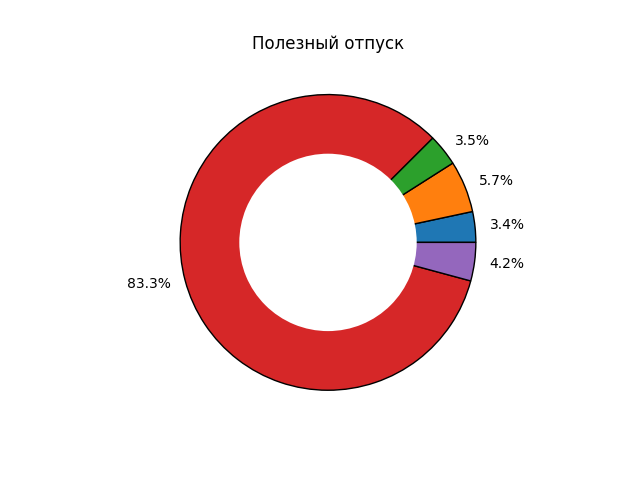
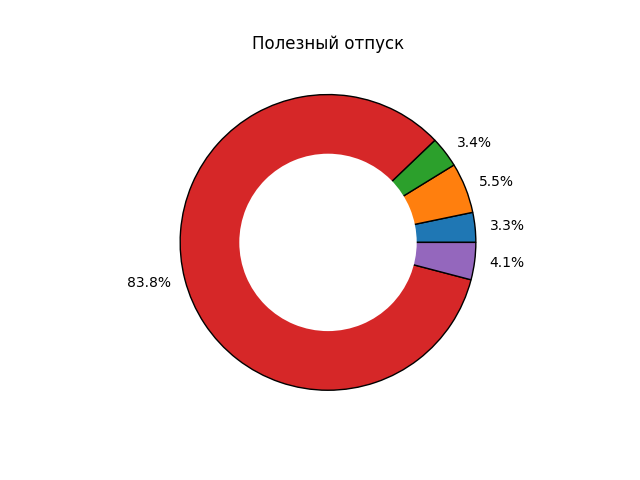
rewtite balance

diff --git a/logic/balance/calculate.py b/logic/balance/calculate.py
@@ -6,7 +6,7 @@ from openpyxl import load_workbook, Workbook
 from openpyxl.worksheet.worksheet import Worksheet
 
 from logic.const import MAIN_DIR, MONTH_LIST
-from logic.utils.excel_extends import open_excel, open_sheet
+from logic.utils.excel_extends import open_sheet, open_excel
 
 
 class Balance:
@@ -14,167 +14,110 @@ class Balance:
     Класс для формирования сводного баланса
     """
 
-    def serialize_network(self, month: str | int) -> dict[str, dict[str, str]]:
-        """
-        Функция для формирования хэш-таблицы сети из файлы "Структура сети.xlsx"
-        Args:
-            month (str | int): Номер месяца
-
-        Returns:
-            dict[str, dict[str, str]]: Данные структуры сети
-        """
+    def serialize_network(self) -> dict[str, dict[str, str]]:
         data = {}
         
         path = f"{MAIN_DIR}/Реестровая база данных/Структура электросети/Свод ОЭСХ.xlsx"
-        file = open_excel(path, data_only=True)
+        file = load_workbook(path, data_only=True)
         sheet = file.worksheets[0]
         for row in range(2, sheet.max_row + 1):
-            data[sheet.cell(row=row, column=1).value] = {
-                "name": sheet.cell(row=row, column=2).value,
-                "consumption": 0,
-                "reception": 0,
-                "transmission": 0,
-                "balance": 0,
-                "waste": 0,
-                "foreign_key": sheet.cell(row=row, column=3).value,
-                "foreign_key_name": sheet.cell(row=row, column=4).value,
-            }
-
+            if sheet.cell(row=row, column=1).value:
+                data[sheet.cell(row=row, column=1).value] = {
+                    "name": sheet.cell(row=row, column=2).value,
+                    "consumption": 0,
+                    "reception": 0,
+                    "transmission": 0,
+                    "balance": 0,
+                    "waste": 0,
+                    "foreign_key": sheet.cell(row=row, column=3).value,
+                    "foreign_key_name": sheet.cell(row=row, column=4).value,
+                }
         return data
         
     
     def serialize_bicu(self, month: str | int) -> dict[str, dict[str, str]]:
-        """
-        Функция для формирования хэш-таблицы потребителей из файлы "Сводная ведомость БИКУ.xlsx"
-        Args:
-            month (str | int): Номер или название месяца
-
-        Returns:
-            dict[str, dict[str, str]]: Данные Бику
-        """
         data = {}
-        year = datetime.now().year
-        
-        path = f"{MAIN_DIR}/Сводный баланс энергопотребления/Сводный баланс {year}/Сводная ведомость БИКУ/Сводная ведомость БИКУ.xlsx"
-        file = open_excel(path, data_only=True)
-        sheet = open_sheet(file, month)
-        
-        for row in range(8, sheet.max_row + 1):
-            data[sheet.cell(row=row, column=3).value] = {
-                "ID": sheet.cell(row=row, column=3).value,
-                "name": sheet.cell(row=row, column=6).value,
-                "status": sheet.cell(row=row, column=5).value,
-                "expenses": sheet.cell(row=row, column=23).value,
-                "foreign_key": sheet.cell(row=row, column=29).value,
-            }
+        year, month = datetime.now().year, MONTH_LIST[month - 1]
+        files_path = f"{MAIN_DIR}/Сводный баланс энергопотребления/Сводный баланс {year}/Сводная ведомость БИКУ/РВ БИКУ {month}/"
+        for file in os.listdir(files_path):
+            path = files_path + file
+            book = load_workbook(path, data_only=True)
+            sheet = book.worksheets[0]
+            for row in range(8, sheet.max_row + 1):
+                data[sheet.cell(row=row, column=3).value] = {
+                    "status": sheet.cell(row=row, column=5).value,
+                    "expenses": sheet.cell(row=row, column=23).value
+                }
         return data
     
     
-    def serialize_consumers(self, month: str | int) -> dict[str, dict[str, str]]:
-        """
-        Функция для формирования хэш-таблицы потребителей из файлы "Сводная ведомость.xlsx"
-        Args:
-            month (str | int): Номер или название месяца
-
-        Returns:
-            dict[str, dict[str, str]]: Данные потребителей
-        """        
+    def serialize_consumers(self, month: str | int, status: str) -> dict[str, dict[str, str]]:
         data = {}
-        year = datetime.now().year
-        
-        path = f"{MAIN_DIR}/Сводный баланс энергопотребления/Сводный баланс {year}/Сводная ведомость потребителей/Сводная ведомость потребителей.xlsx"
-        file = load_workbook(path, data_only=True)
-        sheet = file[MONTH_LIST[month - 1]]
-        
-        for row in range(6, sheet.max_row + 1):
-            data[sheet.cell(row=row, column=3).value] = {
-                "ID": sheet.cell(row=row, column=3).value,
-                "name": sheet.cell(row=row, column=8).value,
-                "expenses": sheet.cell(row=row, column=29).value,
-                "foreign_key": sheet.cell(row=row, column=39).value,
-            }
-            print(sheet.cell(row=row, column=29).value)
+        year, month = datetime.now().year, MONTH_LIST[month - 1]
+        files_path = f"{MAIN_DIR}/Сводный баланс энергопотребления/Сводный баланс {year}/Сводная ведомость потребителей/РВ Потребителей {month}/РВ {status} потребителей/"
+        for file in os.listdir(files_path):
+            path = files_path + file
+            book = load_workbook(path, data_only=True)
+            sheet = book.worksheets[0]
+            for row in range(6, sheet.max_row + 1):
+                data[sheet.cell(row=row, column=3).value] = {
+                    "name": sheet.cell(row=row, column=8).value,
+                    "expenses": sheet.cell(row=row, column=29).value,
+                    "foreign_key": sheet.cell(row=row, column=39).value
+                }
         return data
+        
         
 
     def serialize_balance(self, month: str | int) -> dict[str, dict[str, str]]:
-        """
-        Функция для формирования данных сводного баланса из файлов "Структура сети.xlsx" и "Сводная ведомость.xlsx"
-
-
-
-        Args:
-            month (str | int): Номер или название месяцау
-
-        Returns:
-            dict[str, dict[str, str]]: Хэш-таблица баланса
-        """
-        consumers_data = self.serialize_consumers(month)
-        network_data = self.serialize_network(month)
+        data = self.serialize_network()
         bicu_data = self.serialize_bicu(month)
+        consumers_data = self.serialize_consumers(month, "Бытовых") | self.serialize_consumers(month, "Коммерческих")
         
-        balance = network_data
-
-        for value in consumers_data.values():
-            foreign_key = value["foreign_key"]
-            if foreign_key in balance.keys():
-                if value["expenses"]:
-                    balance[foreign_key]["consumption"] += value["expenses"]
-
-        for value in bicu_data.values():
-            foreign_key = value["foreign_key"]
-            if foreign_key:
-                if value["status"] == "Прием электроэнергии":
-                    if value["expenses"]:
-                        balance[foreign_key]["reception"] += value["expenses"]
-                if value["status"] == "Передача электроэнергии":
-                    if value["expenses"]:
-                        balance[foreign_key]["transmission"] += value["expenses"]
-                if value["status"] not in ("Прием электроэнергии", "Передача электроэнергии"):
-                    raise ValueError(
-                        f'Неверные данные в Сводной ведомости БИКУ, - ID {value["ID"]} Должно быть "Прием электроэнергии" или "Передача электроэнергии"'
-                        )
-                    
-        for value in network_data.values():
-            foreign_key = value["foreign_key"]
-            if foreign_key:
-                if value["consumption"]:
-                    balance[foreign_key]["consumption"] += value["consumption"]
-                if value["reception"]:
-                    balance[foreign_key]["reception"] += value["reception"]
-                if value["transmission"]:
-                    balance[foreign_key]["transmission"] += value["transmission"]
-                
-        for key in balance.keys():
-            balance[key]["balance"] = balance[key]["reception"] - balance[key]["transmission"]
-            balance[key]["waste"] = balance[key]["balance"] - balance[key]["consumption"]
+        for key in bicu_data.keys():
+            if bicu_data[key]["status"] == "Прием электроэнергии":
+                data[key]["reception"] += bicu_data[key]["expenses"]
+            if bicu_data[key]["status"] == "Передача электроэнергии":
+                data[key]["transmission"] += bicu_data[key]["expenses"]
         
-        return balance
+        for key in consumers_data.keys():
+            foreign_key = consumers_data[key]["foreign_key"]
+            data[foreign_key]["consumption"] += consumers_data[key]["expenses"]
+        
+        keys = sorted(data.keys())[::-1]
+        
+        for key in keys:
+            foreign_key = data[key]["foreign_key"]
+            if foreign_key:
+                data[foreign_key]["reception"] += data[key]["reception"]
+                data[foreign_key]["transmission"] += data[key]["transmission"]
+                data[foreign_key]["consumption"] += data[key]["consumption"]
+                data[foreign_key]["balance"] = data[foreign_key]["reception"] - data[foreign_key]["transmission"]
+                data[foreign_key]["waste"] = data[foreign_key]["balance"] - data[foreign_key]["consumption"]
+        
+        return data
         
     def create_balance(self, month: str | int) -> None:
-        """
-        Функция для вставки итоговых данных в файл "Сводный баланс"
-        """
-        year = datetime.now().year
-        path = f"{MAIN_DIR}/Сводный баланс энергопотребления/Сводный баланс {year}/Сводный баланс.xlsx"
-        file = open_excel(path)
-        sheet = open_sheet(file, month)
-        
         data = self.serialize_balance(month)
+        path = f"{MAIN_DIR}/Сводный баланс энергопотребления/Сводный баланс {datetime.now().year}/Сводный баланс 2023.xlsx"
+        file = open_excel(path)
+        sheet = open_sheet(file, month=month)
         
-        sheet.append(("№", "Идентификатор", "Наименование", "Вход", "Выход", "Сальдо переток", "Полезный отпуск", "Потери"))
+        sheet.append(["№", "Идентификатор", "Наименование", "Вход", "Выход", "Сальдо переток", "Полезный отпуск", "Потери", "Процент потерь"])
         number = 1
-        for key, value in data.items():
+        for key in data.keys():
+            try:
+                percent = round(data[key]["waste"] / data[key]["balance"] * 100, 2)
+            except ZeroDivisionError:
+                percent = 0
+            if data[key]["balance"] == 0:
+                data[key]["balance"] = ""
             sheet.append(
-                (
-                    number, key, value["name"], value["reception"],
-                    value["transmission"], value["balance"], value["consumption"], value["waste"]
-                )
+                [
+                    number, key, data[key]["name"], data[key]["reception"],
+                    data[key]["transmission"], data[key]["balance"], data[key]["consumption"],
+                    data[key]["waste"], percent
+                ]
             )
-            number = number + 1
-        
+            number += 1
         file.save(path)
-
-
-    def __call__(self, *args: Any, **kwds: Any) -> Any: 
-        pass

diff --git a/logic/consumers/comparer.py b/logic/consumers/comparer.py
@@ -11,8 +11,8 @@ class ConsumersComparer:
     
     def collect_files(self, month: int, file_status: str):
         path = f"{MAIN_DIR}/Сводный баланс энергопотребления/Сводный баланс {datetime.now().year}/Сводная ведомость потребителей/"
-        file_path = f"{MAIN_DIR}/Сводный баланс энергопотребления/Сводный баланс {datetime.now().year}/Сводная ведомость потребителей/Сводная ведомость {file_status} потребителей.xlsx"
-        dir_path = f"{MAIN_DIR}/Сводный баланс энергопотребления/Сводный баланс {datetime.now().year}/Сводная ведомость потребителей/{MONTH_LIST[month - 1]}/РВ {file_status} потребителей"
+        file_path = path + f"Сводная ведомость {file_status} потребителей.xlsx"
+        dir_path = path + f"РВ Потребителей {MONTH_LIST[month - 1]}/РВ {file_status} потребителей"
         
         if not os.path.exists(file_path):
             file = load_workbook('./template/svod.xlsx')
@@ -24,20 +24,14 @@ class ConsumersComparer:
         try:
             file_names = os.listdir(dir_path)
             for file_name in file_names:
-                rv_file = load_workbook(f"{dir_path}/{file_name}")
+                rv_file = load_workbook(f"{dir_path}/{file_name}", data_only=True)
                 rv_sheet = rv_file.worksheets[0]
-                flag = 6
-                flag_2 = 6
                 for row in rv_sheet.iter_rows(min_row=6, values_only=True):
-                    if row[0]:
-                        sheet.append(row)
-                        sheet.cell(row=flag, column=6).value = str(sheet.cell(row=flag, column=6).value)
-                        sheet.cell(row=flag, column=19).value = str(sheet.cell(row=flag, column=19).value)
-                        flag += 1
+                    sheet.append(row)
             self.insert_formula(sheet)
             file.save(file_path)
         except Exception as error:
-            print(f"Файл отсутсвует, проверьте директорию {path}{MONTH_LIST[month - 1]}>")
+            print(f"Файл отсутсвует, проверьте директорию {path}{MONTH_LIST[month - 1]}> {error}")
     
     def collect_total_files(self, month: int):
         path = f"{MAIN_DIR}/Сводный баланс энергопотребления/Сводный баланс {datetime.now().year}/Сводная ведомость потребителей/"
@@ -45,7 +39,7 @@ class ConsumersComparer:
         if not os.path.exists(f"{path}\Сводная ведомость потребителей.xlsx"):
             file = load_workbook('template/svod.xlsx')
             file.save(f"{path}\Сводная ведомость потребителей.xlsx")
-        file = load_workbook(f"{path}\Сводная ведомость потребителей.xlsx")
+        file = load_workbook(f"{path}\Сводная ведомость потребителей.xlsx", data_only=True)
         sheet = file[MONTH_LIST[month - 1]]
         try:
             comerce = load_workbook(f"{path}\Сводная ведомость Коммерческих потребителей.xlsx", data_only=True)[MONTH_LIST[month - 1]]
@@ -62,7 +56,8 @@ class ConsumersComparer:
         
     def insert_formula(self, sheet: Worksheet):
         for row in range(6, sheet.max_row + 1):
-            sheet.cell(row=row, column=29).value = str(sheet.cell(row=row, column=29).value)
+            sheet.cell(row=row, column=6).value = str(sheet.cell(row=row, column=6).value)
+            sheet.cell(row=row, column=19).value = str(sheet.cell(row=row, column=19).value)
             sheet.cell(row=row, column=1).value = row - 5
             sheet.cell(row=row, column=23).value = "=V{0}-U{0}".format(row)
             sheet.cell(row=row, column=24).value = "=W{0}*T{0}".format(row)

diff --git a/logic/utils/tree_dirs.py b/logic/utils/tree_dirs.py
@@ -46,14 +46,14 @@ class TreeDir:
         """Функуия для создания содержимого 'Сводная ведомость БИКУ'"""
         path += "/Сводная ведомость БИКУ"
         self.validate_dir(path)
-        [self.validate_dir(f"{path}/{folder}") for folder in MONTH_LIST]
+        [self.validate_dir(f"{path}/РВ БИКУ {folder}") for folder in MONTH_LIST]
     
     def __create_comsumers(self, path: str) -> None:
         """Функуия для создания содержимого 'Сводная ведомость потребителей'"""
         path += "/Сводная ведомость потребителей"
-        [self.validate_dir(f"{path}/{folder}") for folder in MONTH_LIST]
-        [self.validate_dir(f"{path}/{folder}/РВ Бытовых потребителей") for folder in MONTH_LIST]
-        [self.validate_dir(f"{path}/{folder}/РВ Коммерческих потребителей") for folder in MONTH_LIST]
+        [self.validate_dir(f"{path}/РВ Потребителей {folder}") for folder in MONTH_LIST]
+        [self.validate_dir(f"{path}/РВ Потребителей {folder}/РВ Бытовых потребителей") for folder in MONTH_LIST]
+        [self.validate_dir(f"{path}/РВ Потребителей {folder}/РВ Коммерческих потребителей") for folder in MONTH_LIST]
     
     def __create_balance_folders(self) -> None:
         """Функция для создания содержимого папки 'Сводный баланс энергопотребления'"""

diff --git a/logic/bicu/comparer.py b/logic/bicu/comparer.py
@@ -21,9 +21,9 @@ class BicuComparer:
         sheet = open_sheet(file, month)
         
         try:
-            file_names = os.listdir(f"{path}{MONTH_LIST[month - 1]}")
+            file_names = os.listdir(f"{path}РВ БИКУ {MONTH_LIST[month - 1]}")
             for file_name in file_names:
-                rv_file = load_workbook(f"{path}{MONTH_LIST[month - 1]}/{file_name}")
+                rv_file = load_workbook(f"{path}РВ БИКУ {MONTH_LIST[month - 1]}/{file_name}")
                 rv_sheet = rv_file.worksheets[0]
                 flag = 8
                 for row in rv_sheet.iter_rows(min_row=8, values_only=True):

diff --git a/__main__.py b/__main__.py
@@ -3,7 +3,11 @@ from logic.consumers import start_consumer
 from logic.bicu import start_bicu
 from logic.balance import start_balance
 from logic.analytics import start_analytics
+from logic.balance.calculate import Balance
 
+
+test = Balance()
+test.create_balance(6)
 
 
 def main():
